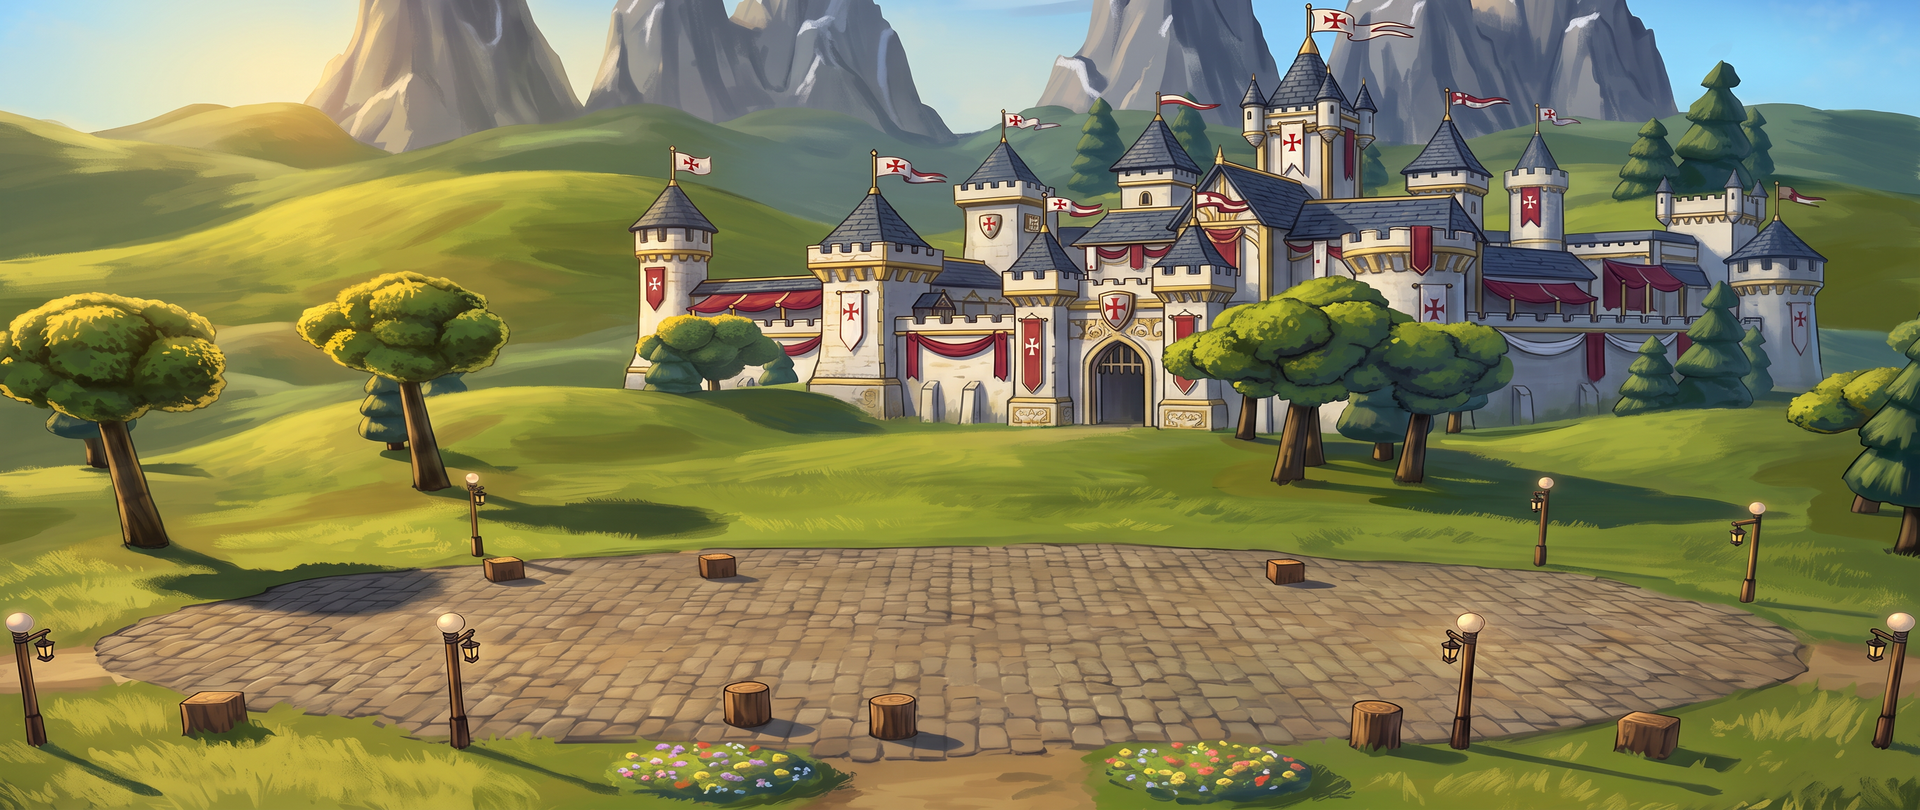
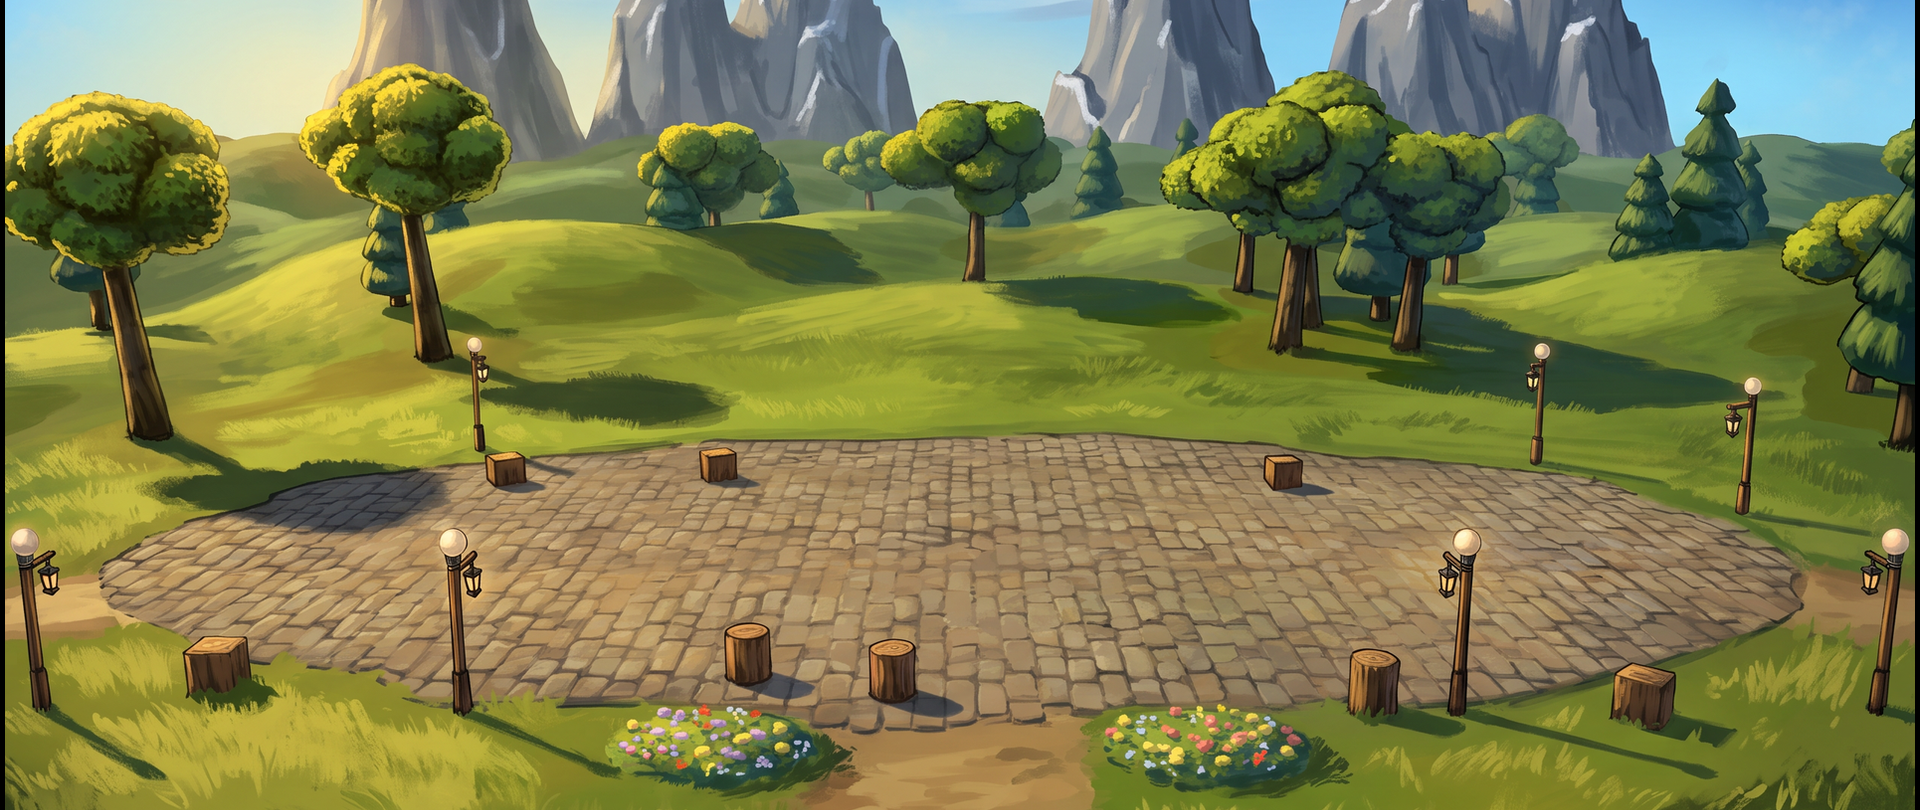
Temple town: the original backdrop again, and a roof on the Fort's end tower
The Templar repaint of the Temple's town backdrop had moved the plaza about
110 px lower and painted a castle into the distance, so the Fort's walls and
its right-end tower hung over grass. The original backdrop is back. That
tower's unfinished white cone is now a slate roof with gold trim like the
Fort's other towers, and the render's faint haze beside it is cleared
(tools/art/fort_tower_paint.py).

Claude-Session: https://claude.ai/code/session_01DA5tkKXTVvUdTY5CEiRZRW

diff --git a/tools/art/fort_tower_paint.py b/tools/art/fort_tower_paint.py
@@ -1,0 +1,113 @@
+"""Temple fort (haven_fort): the tower at the right end of its wall had a plain white cone for a roof, with a window in
+it (the render left it unfinished: the Mage Guild's tower stands on that spot once built), and a faint dark smudge
+beside it. The image model gives it a slate cone like the fort's other towers; only the roof rows of that tower are
+taken from the repaint (the rest of the sprite is untouched, and the click area hardly changes).
+python tools/art/fort_tower_paint.py paint   ->  imagegen/batch39/out/fort_tower.png
+python tools/art/fort_tower_paint.py ingest  ->  assets/town/haven_fort.png (the old sprite kept in tools/art/raw/town/)"""
+import os, sys, shutil
+import numpy as np
+from PIL import Image
+
+sys.path.insert(0, os.path.dirname(__file__))
+from pose_paint import key_out
+
+BATCH = "imagegen/batch39"
+DST = "assets/town/haven_fort.png"
+OLD = "tools/art/raw/town/haven_fort_white_cone.png"
+BOX = (720, 60, 1127, 499)   # sprite px sent to the model: a slate-roofed tower (the reference), the wall, the tower
+X0, X1 = 975, 1110           # the tower's columns (sprite px) where the repaint is taken
+CUT, FADE = 238, 10          # rows taken from the repaint (the roof, down to its top gold ring), then cross-faded
+HAZE = (940, 1127, 305, 60)
+RING = (246, 260, 984, 1088)  # the old top ring's scalloped ends stuck out under the new ring: rows, kept columns
+SLIVER = (975, 1000, 244, 290, 150)  # a dark sliver of backdrop baked onto the tower's left side: cols, rows, max light  # columns, rows above and alpha below which the render's faint shadow haze is cleared
+PAD = 40
+PROMPT = ("This is part of a painted fantasy castle (a sprite on a flat magenta background). The round white tower at "
+          "the right has an unfinished top: a plain white cone with a window in it. Replace that white cone with a "
+          "proper conical roof of dark grey slate tiles, with gold trim along its lower edge and a small gold finial on "
+          "top, exactly like the slate-roofed round tower further left, in the same painting style, perspective and "
+          "lighting, sitting on the tower's top gold ring. Also remove the faint dark smudge next to that tower's top. "
+          "Do not change anything else: the tower body, its windows and gold rings, the walls and the other tower stay "
+          "exactly the same, same size and position. Keep the background flat pure magenta (#FF00FF), no ground, no "
+          "shadow, no text.")
+
+
+def _src():
+    return Image.open(OLD if os.path.exists(OLD) else DST).convert("RGBA")
+
+
+def paint():
+    import vertex_paint as vp
+    from google import genai
+    os.makedirs(f"{BATCH}/in", exist_ok=True)
+    os.makedirs(f"{BATCH}/out", exist_ok=True)
+    os.makedirs(os.path.dirname(OLD), exist_ok=True)
+    if not os.path.exists(OLD):
+        shutil.copy(DST, OLD)
+    a = np.asarray(_src()).copy()
+    a[..., 3] = np.where(a[..., 3] > 160, 255, 0)
+    crop = Image.fromarray(a).crop(BOX)
+    canvas = Image.new("RGBA", (crop.width + 2 * PAD, crop.height + 2 * PAD), (255, 0, 255, 255))
+    canvas.alpha_composite(crop, (PAD, PAD))
+    canvas.convert("RGB").save(f"{BATCH}/in/fort_tower.png")
+    client = genai.Client(vertexai=True, project=vp.PROJECT, location=vp.LOCATION)
+    img = vp.paint(client, "gemini-nano-banana-2.1", f"{BATCH}/in/fort_tower.png", PROMPT, "1:1", "1K")
+    if img:
+        img.save(f"{BATCH}/out/fort_tower.png")
+        print("done", img.size, "from", canvas.size)
+
+
+def ingest():
+    old = _src()
+    src = Image.open(f"{BATCH}/in/fort_tower.png").convert("RGB")
+    out = key_out(Image.open(f"{BATCH}/out/fort_tower.png").convert("RGB"))
+    # the model answers at its own size and framing: map it back onto the input canvas by the drawing's left and
+    # right edges (across) and by the reference tower's apex and the drawing's bottom (down)
+    sa = np.asarray(src).astype(int)
+    smask = ~((sa[..., 0] > 200) & (sa[..., 1] < 80) & (sa[..., 2] > 200))
+    omask = np.asarray(out)[..., 3] > 128
+    def feats(m):
+        ys, xs = np.nonzero(m)
+        l, r = xs.min(), xs.max()
+        ref = m[:, l:l + int((r - l) * 0.4)]
+        return l, r, np.nonzero(ref.any(axis=1))[0].min(), ys.max()
+    sl, sr, st, sb = feats(smask)
+    ol, orr, ot, ob = feats(omask)
+    kx, ky = (orr - ol) / (sr - sl), (ob - ot) / (sb - st)
+    print("  scale", round(kx, 3), round(ky, 3))
+    out = out.transform(src.size, Image.AFFINE, (kx, 0, ol - sl * kx, 0, ky, ot - st * ky), Image.BICUBIC)
+    o = np.asarray(out).astype(np.float32)
+    s = np.asarray(src).astype(np.float32)
+    body = (slice(PAD + CUT - BOX[1] + 20, PAD + CUT - BOX[1] + 140), slice(PAD + X0 - BOX[0] + 20, PAD + X1 - BOX[0] - 20))
+    oa = o[body][..., 3] > 128
+    print("  tower body colour difference:", round(float(np.abs(o[body][..., :3] - s[body])[oa].mean()), 1) if oa.any() else "none")
+    # the repaint in sprite coordinates
+    rep = np.zeros((old.height, old.width, 4), np.float32)
+    rep[BOX[1]:BOX[3], BOX[0]:BOX[2]] = o[PAD:PAD + BOX[3] - BOX[1], PAD:PAD + BOX[2] - BOX[0]]
+    rep[..., 3] = (rep[..., 3] > 128) * 255.0
+    base = np.asarray(old).astype(np.float32)
+    w = np.zeros((old.height, 1, 1), np.float32)
+    w[:CUT] = 1
+    w[CUT:CUT + FADE, 0, 0] = np.linspace(1, 0, FADE)
+    cols = np.zeros((1, old.width, 1), np.float32)
+    cols[0, X0:X1, 0] = 1
+    wt = w * cols
+    new = rep * wt + base * (1 - wt)
+    # above the cut, inside the tower's columns, the repaint decides the shape (the old cone and smudge go)
+    blank = (wt[..., 0] >= 1) & (rep[..., 3] == 0)
+    new[blank] = 0
+    # the render's faint shadow haze around the tower (the old backdrop's trees hid it)
+    x0, x1, y1, amax = HAZE
+    hz = new[:y1, x0:x1]
+    hz[hz[..., 3] < amax] = 0
+    r0, r1, k0, k1 = RING
+    new[r0:r1, :k0][..., 3] = np.where(np.arange(k0) >= X0 - 10, 0, new[r0:r1, :k0][..., 3])
+    new[r0:r1, k1:X1 + 10] = 0
+    c0, c1, s0, s1, lmax = SLIVER
+    sv = new[s0:s1, c0:c1]
+    sv[sv[..., :3].mean(axis=-1) < lmax] = 0
+    Image.fromarray(new.clip(0, 255).astype(np.uint8), "RGBA").save(DST)
+    print("  town/haven_fort.png", old.size)
+
+
+if __name__ == "__main__":
+    {"paint": paint, "ingest": ingest}[sys.argv[1]]()

diff --git a/HANDOFF.md b/HANDOFF.md
@@ -16,6 +16,17 @@ the look and feel of HoMM3, and each round fixes what the judge found.
 
 ## 2. Status
 
+- **Session67 Temple fort tower (2026-10-25), committed with this HANDOFF update:** the user circled the tower at the right end of the
+  Temple's Fort wall ("that tower does not look correct"). Cause: the Templar repaint had redrawn the backdrop
+  (`town/haven_bg.png`) with its plaza about 110 px lower and a whole castle painted in the distance, so the Fort's
+  walls hung over grass with tree trunks under them (and a castle showed with no Fort built). The original backdrop
+  is back (it had nothing in the Temple's colours); the tower's unfinished white cone (the Mage Guild covers that
+  spot once built) is now a slate roof with gold trim like the Fort's other towers, and the render's faint dark haze
+  beside it is gone (`tools/art/fort_tower_paint.py`, imagegen/batch39; the old sprite in ignored
+  `tools/art/raw/town/haven_fort_white_cone.png`). With the Mage Guild built the new roof shows a little behind the
+  guild's tower, read as a tower behind it (the old cone showed there too). The Order of the Dragon backdrop drifted
+  less and its town still stands right. Screenshots in ignored `shots/session67/tower/` (before/after, early and
+  fully built, `guild_cover.png`).
 - **Session67 room code and icon (2026-10-25), committed with this HANDOFF update:** the user found the room code gone once the host was in
   the lobby, and did not like the Godot favicon. The code now shows large beside the title in the lobby, on the
   host's and the joined screens (`main_menu._room_badge`). New game icon `assets/ui/icon.png` (the logo's broken
@@ -1528,6 +1539,10 @@ Suggested order remains **artifacts → AI → hot-seat multiplayer**, with the 
 
 ## 10. Gotchas learned the hard way
 
+- Town backdrops (session67): an image-model repaint of `town/<faction>_bg.png` can move the ground (the Temple's
+  plaza went 110 px lower and a castle appeared), and every building sprite is placed for the old ground. After any
+  backdrop change, look at the town screen early (`--setup=demo`) and fully built (`--setup=rich`), not the
+  backdrop alone.
 - Browser version (session67): only the cursor over the page is known (edge scrolling must not use screen
   positions; past the page's edge it goes on toward the edge the cursor left by, as the user asked); a room code may start with a digit; ENet does not work in a browser (room codes only). A new
   workers.dev subdomain took a few minutes before its certificate worked. The browser drive used for checks is

diff --git a/ASSETS.md b/ASSETS.md
@@ -157,6 +157,9 @@ Measure with `python tools/art/sprite_sizes.py <id>_dead.png` to preserve unrela
   and moved to the front-right lawn by `tools/art/town_edge_paint.py` (imagegen/batch19), which also rewrites its rect.
   The archers' tower (`haven_dwelling_2.png`) had its roof cut at the left edge: `tools/art/tower_edge_paint.py`
   (imagegen/batch21) repaints the roof and platform whole, aligned to the old sprite, and moves it right.
+  The tower at the right end of the Fort's wall (`haven_fort.png`) had an unfinished white cone (the Mage Guild stands
+  on that spot once built): `tools/art/fort_tower_paint.py` (imagegen/batch39) gives it a slate roof like the Fort's
+  other towers, pasted over the roof rows only, and clears the render's faint shadow haze beside it.
 
 ## Icons & UI
 - `icons/res_<resource>.png` — 64x64 resource icons.
@@ -216,7 +219,8 @@ Measure with `python tools/art/sprite_sizes.py <id>_dead.png` to preserve unrela
 - Voice (optional): `voice/<line_id>.mp3` narrator lines: intro, victory, defeat, new_week.
 
 ## Faction colours from the setting (session67)
-The Temple (`haven`) town screen (`town/haven_*.png`, the backdrop, the layout unchanged), its building cards
+The Temple (`haven`) town screen (`town/haven_*.png`, the layout unchanged; its backdrop was repainted too but is the
+original again since session67: the repaint had moved the plaza down and painted a castle in), its building cards
 (`icons/building_haven_*.png`), its map towns (`map/town_haven*.png`) and the main menu painting (`ui/main_menu_bg.png`)
 were repainted in the Templars' colours by `tools/art/faction_repaint.py haven` (`prep`, `paint`, `ingest`;
 imagegen/batch37; first named `temple_repaint.py`):
